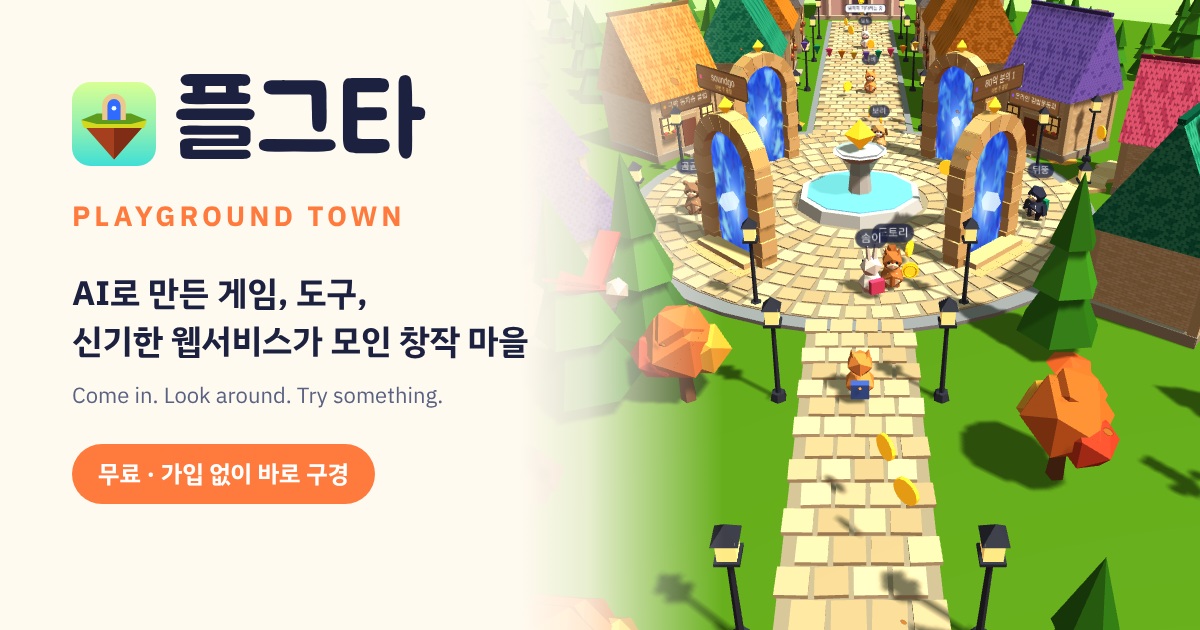
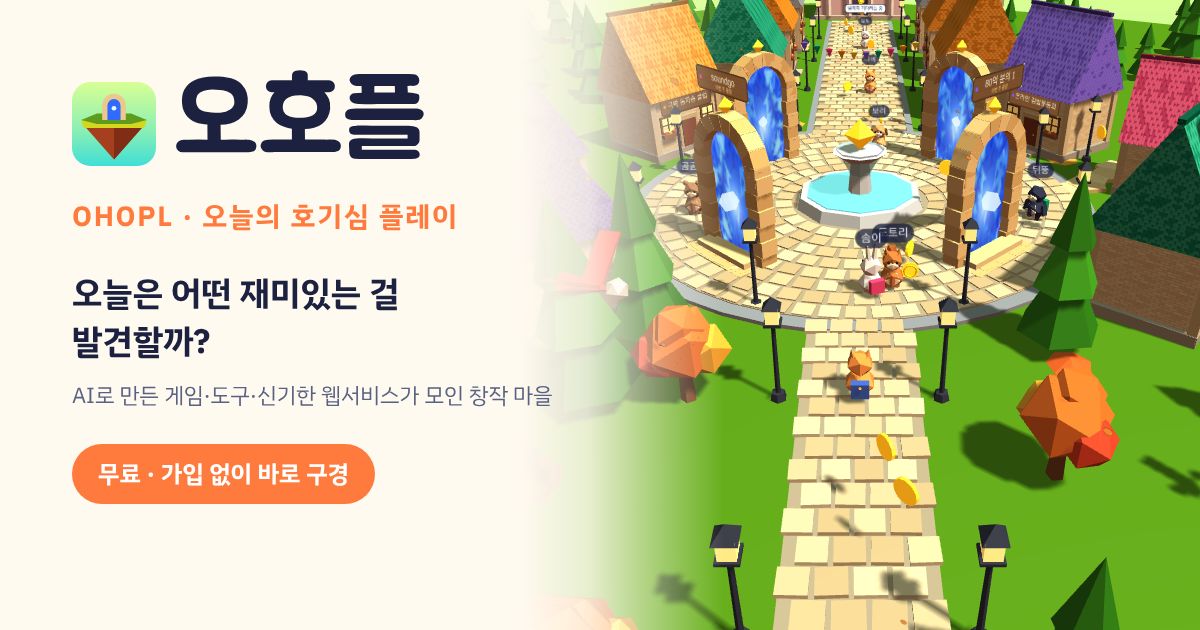
브랜드를 오호플(OHOPL)로 변경
Claude-Session: https://claude.ai/code/session_01DTRoTQFnC3GJ2N4Hy9wZY7

diff --git a/index.html b/index.html
@@ -3,21 +3,21 @@
 <head>
 <meta charset="utf-8">
 <meta name="viewport" content="width=device-width, initial-scale=1, viewport-fit=cover">
-<title>플그타 PLAYGROUND TOWN</title>
-<meta name="description" content="AI로 만든 게임, 도구, 신기한 웹서비스가 모인 창작 마을. 동물 친구가 되어 걸어 다니며 구경해요. 무료, 가입 없이 바로.">
+<title>오호플 OHOPL · 오늘의 호기심 플레이</title>
+<meta name="description" content="오늘은 어떤 재미있는 걸 발견할까? AI로 만든 게임, 도구, 신기한 웹서비스가 모인 창작 마을. 무료, 가입 없이 바로.">
 <meta property="og:type" content="website">
-<meta property="og:site_name" content="플그타">
-<meta property="og:title" content="플그타 · PLAYGROUND TOWN">
-<meta property="og:description" content="AI로 만든 게임, 도구, 신기한 웹서비스가 모인 창작 마을">
-<meta property="og:url" content="https://plgta.vercel.app/">
-<meta property="og:image" content="https://plgta.vercel.app/og-image.png">
+<meta property="og:site_name" content="오호플">
+<meta property="og:title" content="오호플 · 오늘의 호기심 플레이">
+<meta property="og:description" content="오늘은 어떤 재미있는 걸 발견할까? AI로 만든 게임·도구·웹서비스가 모인 창작 마을">
+<meta property="og:url" content="https://ohopl.vercel.app/">
+<meta property="og:image" content="https://ohopl.vercel.app/og-image.png">
 <meta property="og:image:width" content="1200">
 <meta property="og:image:height" content="630">
 <meta property="og:locale" content="ko_KR">
 <meta name="twitter:card" content="summary_large_image">
-<meta name="twitter:title" content="플그타 · PLAYGROUND TOWN">
-<meta name="twitter:description" content="AI로 만든 게임, 도구, 신기한 웹서비스가 모인 창작 마을">
-<meta name="twitter:image" content="https://plgta.vercel.app/og-image.png">
+<meta name="twitter:title" content="오호플 · 오늘의 호기심 플레이">
+<meta name="twitter:description" content="오늘은 어떤 재미있는 걸 발견할까?">
+<meta name="twitter:image" content="https://ohopl.vercel.app/og-image.png">
 <link rel="icon" href="/favicon.svg" type="image/svg+xml">
 <link rel="icon" href="/favicon-32.png" sizes="32x32" type="image/png">
 <link rel="icon" href="/favicon-16.png" sizes="16x16" type="image/png">
@@ -243,10 +243,10 @@ button{cursor:pointer}
 
 </head>
 <body>
-<canvas id="c" aria-label="플그타 창작 마을 3D 화면"></canvas>
+<canvas id="c" aria-label="오호플 창작 마을 3D 화면"></canvas>
 
 <header class="top">
-  <div class="brand"><b>플그타</b><span>PLAYGROUND TOWN</span></div>
+  <div class="brand"><b>오호플</b><span>오늘의 호기심 플레이</span></div>
   <div class="spacer"></div>
   <label class="pill" for="animal">나는
     <select id="animal" aria-label="내 동물 고르기">
@@ -307,13 +307,13 @@ button{cursor:pointer}
     <div class="feat-row" id="feat"></div>
     <h3 class="sec-title">모든 가게 <small id="countLabel"></small></h3>
     <div class="tiles" id="tiles"></div>
-    <section class="g-about" id="gAbout" aria-label="플그타 소개"></section>
+    <section class="g-about" id="gAbout" aria-label="오호플 소개"></section>
     <footer class="g-foot">
-      <p class="foot-brand"><b>플그타</b> PLAYGROUND TOWN · Come in. Look around. Try something.</p>
+      <p class="foot-brand"><b>오호플</b> OHOPL · 오늘의 호기심 플레이 · 오늘은 어떤 재미있는 걸 발견할까?</p>
       <nav class="foot-links" aria-label="안내">
-        <a href="#about">플그타 소개</a><a href="#faq">자주 묻는 질문</a><a href="#submit">작품 입점·삭제 요청</a><a href="#terms">이용약관</a><a href="#privacy"><b>개인정보처리방침</b></a><a href="#operator">운영자 정보</a>
+        <a href="#about">오호플 소개</a><a href="#faq">자주 묻는 질문</a><a href="#submit">작품 입점·삭제 요청</a><a href="#terms">이용약관</a><a href="#privacy"><b>개인정보처리방침</b></a><a href="#operator">운영자 정보</a>
       </nav>
-      <p class="foot-note">소개된 작품은 각 제작자가 운영해요. 작품 안의 내용과 개인정보 처리는 해당 사이트의 정책을 따라요. © 2026 플그타</p>
+      <p class="foot-note">소개된 작품은 각 제작자가 운영해요. 작품 안의 내용과 개인정보 처리는 해당 사이트의 정책을 따라요. © 2026 오호플</p>
     </footer>
   </div>
 </section>
@@ -330,13 +330,13 @@ button{cursor:pointer}
 <button class="jump" id="jumpBtn" type="button" hidden>점프</button>
 <section class="info" id="info" hidden role="dialog" aria-labelledby="infoTitle">
   <div class="info-inner">
-    <header class="info-head"><h1 id="infoTitle">플그타 안내</h1><button class="chat-x" id="infoClose" type="button" aria-label="안내 닫기">×</button></header>
+    <header class="info-head"><h1 id="infoTitle">오호플 안내</h1><button class="chat-x" id="infoClose" type="button" aria-label="안내 닫기">×</button></header>
     <nav class="info-tabs" id="infoTabs" aria-label="안내 목록"></nav>
     <article class="info-body" id="infoBody"></article>
   </div>
 </section>
 <div class="toast" id="toast" hidden></div>
-<div class="loading" id="loading">플그타 여는 중</div>
+<div class="loading" id="loading">오호플 여는 중</div>
 
 <script src="https://cdnjs.cloudflare.com/ajax/libs/three.js/r128/three.min.js"></script>
 <script>
@@ -351,7 +351,7 @@ const TYPES = {
   EXPLORE:{ko:'탐험', color:'#f28c17'}
 };
 // 작품으로 보낼 때 붙이는 꼬리표. 도메인이 정해지면 여기만 바꾸면 됨
-const SITE_REF = {ref:'plgta', utm_source:'plgta'};
+const SITE_REF = {ref:'ohopl', utm_source:'ohopl'};
 function withRef(url){
   try{ const u=new URL(url); for(const k in SITE_REF){ if(!u.searchParams.has(k)) u.searchParams.set(k, SITE_REF[k]); } return u.toString(); }
   catch(e){ return url; }
@@ -385,7 +385,7 @@ const WORKS = [
   {id:'julseo', name:'줄서 · 불구덩이', type:'EXPLORE', zone:'골목', side:'east', url:'https://julseo.co.kr', desc:'고민을 적고 줄 섰다가 차례가 오면 불구덩이에 던져요. 저장되지 않아요.', share:'"오늘 고민 태우고 왔다"', score:2},
   {id:'haewoo', name:'해우소 · 속풀이 숲', type:'EXPLORE', zone:'골목', side:'east', url:'https://haewooso.net/', desc:'못 한 말을 적으면 똥이 되어 쌓이고, 꼰대 상사 인형을 때리고 물을 내려요.', share:'직장 스트레스 밈', score:2}
 ];
-// 마을 구석에 숨겨 둔 작품 (플그타 제작자가 만든 것만)
+// 마을 구석에 숨겨 둔 작품 (오호플 제작자가 만든 것만)
 const HIDDEN_WORKS = [
   {id:'camino', name:'카미노스피어', type:'EXPLORE', zone:'숨은 곳', hidden:true, url:'https://caminosphere.vercel.app/', desc:'피레네를 넘는 산티아고 프랑스 길을 브라우저에서 걸어요. 국기를 단 배낭을 메고, 다른 순례자에게 물이나 차 한 잔을 건네요.', share:'내 순례자 캐릭터와 걸은 거리 캡처', score:2,
     hint:'서쪽 골목 끝에서 숲 쪽을 봐. 돌 위에 노란 화살표가 있어. 그걸 따라가'},
@@ -781,8 +781,8 @@ function makeGate(){
   const g=new THREE.Group();
   const arch=makeArch(1.0, 0, 0, '#ecc88c', 3.6); g.add(arch);
   const top=arch.userData.H + 3.6;
-  const sg=sign('PLAYGROUND TOWN','#ff7a3d',7,'플그타에 어서 와요'); sg.position.set(0,top+1.9,0.3); g.add(sg);
-  const sgb=sign('PLAYGROUND TOWN','#ff7a3d',7,'또 놀러 와요'); sgb.rotation.y=Math.PI; sgb.position.set(0,top+1.9,-0.3); g.add(sgb);
+  const sg=sign('오호플','#ff7a3d',7,'오늘의 호기심 플레이'); sg.position.set(0,top+1.9,0.3); g.add(sg);
+  const sgb=sign('오호플','#ff7a3d',7,'내일 또 놀러 와요'); sgb.rotation.y=Math.PI; sgb.position.set(0,top+1.9,-0.3); g.add(sgb);
   g.position.set(0,0,52); scene.add(g);
   colliders.push({x:-3.6,z:52,r:0.8},{x:3.6,z:52,r:0.8});
 }
@@ -1247,7 +1247,7 @@ function openCard(id){
   rows.forEach(([k,v],i)=>{ const dt=document.createElement('dt'); dt.textContent=k; const dd=document.createElement('dd'); dd.textContent=v.trim(); if(i===1) dd.className='dots'; kv.append(dt,dd); });
   $('cardMove').textContent = w.soon ? '마을이 자리를 잡으면 이 미술관이 첫 번째 자체 작품으로 문을 열어요.'
     : w.vacant ? '큰길에 남은 빈자리예요. 작품이 입점하면 이 자리에 간판이 걸려요.'
-    : w.hidden ? '플그타를 만든 사람이 마을 구석에 숨겨 둔 작품이에요.'
+    : w.hidden ? '오호플을 만든 사람이 마을 구석에 숨겨 둔 작품이에요.'
     : w.moved ? '반응이 좋아서 이번 주 골목에서 큰길로 이사 왔어요.'
     : w.zone==='골목' ? '골목에서 막 문을 연 가게예요. 매주 반응을 보고 큰길로 이사할 가게를 골라요.'
     : w.zone==='큰길' ? '찾아오는 사람이 많은 큰길 가게예요.'
@@ -1316,9 +1316,9 @@ const PH = t => `<span class="ph">[${t}]</span>`;
 function countType(k){ return WORKS.filter(w=>w.type===k).length; }
 function aboutHTML(h){
   const feat=WORKS.filter(w=>w.featured).map(w=>w.name).join(', ');
-  return `<${h}>플그타는 어떤 곳인가요?</${h}>
-  <p>플그타(PLAYGROUND TOWN)는 AI로 만든 게임, 도구, 신기한 웹서비스를 동물 친구가 되어 걸어 다니며 구경하는 창작 마을이에요. 설치도 가입도 필요 없어요. 휴대폰, 태블릿, PC 어디서든 바로 들어와요.</p>
-  <p>지금 마을에는 작품 ${WORKS.length}곳이 문을 열었고, 마을 구석에 숨은 가게도 있어요. 작품은 각 제작자의 사이트에서 운영되고, 플그타는 재미있는 작품을 골라 소개하고 연결해요.</p>
+  return `<${h}>오호플은 어떤 곳인가요?</${h}>
+  <p>오호플(OHOPL)은 AI로 만든 게임, 도구, 신기한 웹서비스를 동물 친구가 되어 걸어 다니며 구경하는 창작 마을이에요. 설치도 가입도 필요 없어요. 휴대폰, 태블릿, PC 어디서든 바로 들어와요.</p>
+  <p>지금 마을에는 작품 ${WORKS.length}곳이 문을 열었고, 마을 구석에 숨은 가게도 있어요. 작품은 각 제작자의 사이트에서 운영되고, 오호플은 재미있는 작품을 골라 소개하고 연결해요.</p>
   <div class="about-grid">
     <div><h3>이번 주 광장</h3><p>분수 둘레 포털에 걸린 작품이에요. ${feat}.</p></div>
     <div><h3>놀이 ${countType('PLAY')}곳</h3><p>친구를 불러 한 판 하는 게임부터 인생 시뮬레이션까지 있어요.</p></div>
@@ -1330,11 +1330,11 @@ function aboutHTML(h){
 }
 function renderAbout(){ $('gAbout').innerHTML = aboutHTML('h2'); }
 const PAGES = {
-  about:{label:'플그타 소개', html:()=>`<h2>플그타 소개</h2><p class="lead">Come in. Look around. Try something.</p>${aboutHTML('h3')}`},
+  about:{label:'오호플 소개', html:()=>`<h2>오호플 소개</h2><p class="lead">오늘은 어떤 재미있는 걸 발견할까? 발견하고, 해 보고, 창작자가 성장하는 곳.</p>${aboutHTML('h3')}`},
   faq:{label:'자주 묻는 질문', html:()=>`<h2>자주 묻는 질문</h2><dl>
-    <div><dt>무료인가요?</dt><dd>네, 플그타는 무료예요. 소개된 작품 중 일부는 제작자 사이트에서 유료 기능을 운영할 수 있어요.</dd></div>
+    <div><dt>무료인가요?</dt><dd>네, 오호플은 무료예요. 소개된 작품 중 일부는 제작자 사이트에서 유료 기능을 운영할 수 있어요.</dd></div>
     <div><dt>가입해야 하나요?</dt><dd>아니요. 고른 동물, 코인, 도장은 지금 쓰는 기기의 브라우저에만 저장돼요. 다른 기기에서는 처음부터 시작해요.</dd></div>
-    <div><dt>작품은 누가 만들었나요?</dt><dd>각 작품의 제작자가 만들었어요. 플그타는 작품을 골라 소개하고 원래 사이트로 연결해요. 마을 구석의 숨은 가게는 플그타를 만든 사람이 만든 작품이에요.</dd></div>
+    <div><dt>작품은 누가 만들었나요?</dt><dd>각 작품의 제작자가 만들었어요. 오호플은 작품을 골라 소개하고 원래 사이트로 연결해요. 마을 구석의 숨은 가게는 오호플을 만든 사람이 만든 작품이에요.</dd></div>
     <div><dt>왜 새 창으로 이동하나요?</dt><dd>작품이 제작자 사이트에서 운영되기 때문이에요. 둘러보고 돌아오면 반응을 남길 수 있어요.</dd></div>
     <div><dt>도장은 언제 찍히나요?</dt><dd>작품에 들러 15초 이상 둘러보고 돌아오면 찍혀요.</dd></div>
     <div><dt>큰길로 이사하는 가게는 어떻게 정하나요?</dt><dd>매주 방문자 반응을 보고 운영자가 골라요. 반응이 쌓이면 자동으로 이사하는 기능은 준비 중이에요.</dd></div>
@@ -1347,12 +1347,12 @@ const PAGES = {
     <h3>입점 신청</h3><p>아래 내용을 이메일(eunhaebleu@naver.com)로 보내 주세요.</p>
     <ul><li>작품 이름과 주소</li><li>한 줄 소개와 무엇을 할 수 있는지</li><li>제작자 이름이나 닉네임, 연락받을 방법</li><li>모바일 지원 여부, 연령 권장 사항</li></ul>
     <h3>고르는 기준</h3><ul><li>링크가 바로 열리고 휴대폰에서도 쓸 수 있는가</li><li>설명 없이도 해볼 만한가</li><li>다른 사람에게 보여주고 싶은가</li><li>불법·유해 내용, 피싱, 악성코드가 없는가</li></ul>
-    <h3>입점하면</h3><p>새 작품은 골목에서 시작해요. 플그타에서 작품으로 가는 링크에는 <code>?ref=plgta&amp;utm_source=plgta</code>가 붙어서, 제작자가 자기 통계에서 플그타 방문자를 확인할 수 있어요.</p>
+    <h3>입점하면</h3><p>새 작품은 골목에서 시작해요. 오호플에서 작품으로 가는 링크에는 <code>?ref=ohopl&amp;utm_source=ohopl</code>가 붙어서, 제작자가 자기 통계에서 오호플 방문자를 확인할 수 있어요.</p>
     <h3>수정·소개 중단 요청</h3><p>제작자는 언제든 작품 정보 수정이나 소개 중단을 요청할 수 있어요. 확인 후 바로 반영해요.</p>
     <h3>권리 침해 신고</h3><p>소개된 작품이 저작권 등 권리를 침해한다고 생각하면 신고인 연락처, 대상 작품, 침해 내용과 권리를 확인할 수 있는 자료를 보내 주세요. 확인하는 동안 소개를 임시로 중단하고, 처리 결과를 알려 드려요.</p>`},
   terms:{label:'이용약관', html:()=>`<h2>이용약관</h2>
-    <h3>제1조 (목적)</h3><p>이 약관은 블루루반(이하 "운영자")이 제공하는 플그타(PLAYGROUND TOWN) 서비스의 이용 조건과 절차를 정합니다.</p>
-    <h3>제2조 (서비스 내용)</h3><p>플그타는 다른 제작자가 만든 웹 작품을 소개하고 해당 작품의 주소로 연결하는 서비스예요. 마을 둘러보기, 코인, 주민 대화 같은 부가 기능은 무료로 제공해요.</p>
+    <h3>제1조 (목적)</h3><p>이 약관은 블루루반(이하 "운영자")이 제공하는 오호플(OHOPL) 서비스의 이용 조건과 절차를 정합니다.</p>
+    <h3>제2조 (서비스 내용)</h3><p>오호플은 다른 제작자가 만든 웹 작품을 소개하고 해당 작품의 주소로 연결하는 서비스예요. 마을 둘러보기, 코인, 주민 대화 같은 부가 기능은 무료로 제공해요.</p>
     <h3>제3조 (외부 작품)</h3><p>소개된 작품은 각 제작자가 운영해요. 작품의 내용, 이용 조건, 개인정보 처리, 결제는 해당 작품의 정책을 따르며 운영자는 이에 관여하지 않아요. 작품을 쓰기 전에 해당 사이트의 약관을 확인해 주세요.</p>
     <h3>제4조 (소개 기준과 중단)</h3><p>운영자는 작품을 직접 골라 소개하며, 불법·유해 정보, 피싱·악성코드, 권리 침해 신고가 확인되었거나 링크가 오랫동안 작동하지 않으면 소개를 중단할 수 있어요.</p>
     <h3>제5조 (권리 침해 신고)</h3><p>권리를 침해당했다고 판단하는 사람은 <a href="#submit">입점·삭제 요청</a> 페이지의 방법으로 신고할 수 있어요. 운영자는 확인 후 소개를 임시로 중단하는 등 필요한 조치를 해요.</p>
@@ -1362,11 +1362,11 @@ const PAGES = {
     <h3>제9조 (준거법과 관할)</h3><p>이 약관은 대한민국 법을 따르며, 분쟁은 민사소송법에 따른 관할 법원에서 해결해요.</p>
     <h3>부칙</h3><p>이 약관은 ${PH('시행일')}부터 시행해요.</p>`},
   privacy:{label:'개인정보처리방침', html:()=>`<h2>개인정보처리방침</h2>
-    <p class="lead">블루루반은 플그타 이용자의 개인정보를 소중히 다뤄요.</p>
-    <h3>1. 수집하는 개인정보</h3><p>플그타는 회원가입이 없고, 이름·이메일·전화번호 같은 개인정보를 서버에 수집하지 않아요.</p>
+    <p class="lead">블루루반은 오호플 이용자의 개인정보를 소중히 다뤄요.</p>
+    <h3>1. 수집하는 개인정보</h3><p>오호플은 회원가입이 없고, 이름·이메일·전화번호 같은 개인정보를 서버에 수집하지 않아요.</p>
     <h3>2. 이 기기에만 저장되는 정보</h3><p>마을 이용 편의를 위해 브라우저 저장소(localStorage)에 아래 정보를 저장해요. 서버로 보내지 않으며, 브라우저의 사이트 데이터를 지우면 함께 지워져요.</p>
     <div class="tbl"><table><tr><th>항목</th><td>고른 동물, 코인 수, 도장, 남긴 반응, 주민과의 친밀도, 찾은 숨은 가게, 시간·날씨·계절·소리 설정, 이용 횟수 집계</td></tr><tr><th>목적</th><td>다음 방문 때 이어서 이용하기</td></tr><tr><th>보관</th><td>이용자가 지울 때까지 이 기기에만</td></tr></table></div>
-    <h3>3. 외부 사이트로 이동할 때</h3><p>작품으로 이동하면 해당 사이트의 개인정보처리방침이 적용돼요. 이동 주소에는 플그타에서 왔다는 표시(ref=plgta, utm_source=plgta)가 붙지만, 개인을 알아볼 수 있는 정보는 들어가지 않아요.</p>
+    <h3>3. 외부 사이트로 이동할 때</h3><p>작품으로 이동하면 해당 사이트의 개인정보처리방침이 적용돼요. 이동 주소에는 오호플에서 왔다는 표시(ref=ohopl, utm_source=ohopl)가 붙지만, 개인을 알아볼 수 있는 정보는 들어가지 않아요.</p>
     <h3>4. 이용 통계</h3><p>서비스 개선을 위한 방문 통계 도구를 도입하면 수집 항목, 목적, 보관 기간, 처리를 맡기는 업체를 이 방침에 먼저 알려요.</p>
     <h3>5. 이메일 문의</h3><p>이메일로 입점·문의를 보내면 답장을 위해 이메일 주소와 문의 내용을 받고, 처리 후 ${PH('보관 기간')} 동안 보관한 뒤 파기해요.</p>
     <h3>6. 개인정보 보호책임자</h3><p>이름 ${PH('이름')} · 연락처 ${PH('이메일')}</p>
@@ -1374,7 +1374,7 @@ const PAGES = {
     <h3>8. 시행일</h3><p>이 방침은 ${PH('시행일')}부터 적용해요.</p>`},
   operator:{label:'운영자 정보', html:()=>`<h2>운영자 정보</h2>
     <div class="tbl"><table>
-      <tr><th>서비스명</th><td>플그타 (PLAYGROUND TOWN)</td></tr>
+      <tr><th>서비스명</th><td>오호플 (OHOPL · 오늘의 호기심 플레이)</td></tr>
       <tr><th>운영</th><td>블루루반</td></tr>
       <tr><th>대표자</th><td>${PH('대표자 이름')}</td></tr>
       <tr><th>사업자등록번호</th><td>${PH('사업자등록번호')}</td></tr>

diff --git a/README.md b/README.md
@@ -1,6 +1,7 @@
-# 플그타 PLAYGROUND TOWN
+# 오호플 OHOPL · 오늘의 호기심 플레이
 
-AI로 만든 게임, 도구, 신기한 웹서비스가 모인 창작 마을. 정적 사이트(index.html 하나)라 빌드 없이 Vercel에 그대로 올라가요.
+오늘은 어떤 재미있는 걸 발견할까? AI로 만든 게임, 도구, 신기한 웹서비스가 모인 창작 마을.
+정적 사이트(index.html 하나)라 빌드 없이 Vercel에 그대로 올라가요.
 
-- 공유 미리보기 주소: index.html의 `https://plgta.vercel.app` 부분을 실제 도메인으로 바꾸기
+- 공유 미리보기 주소: index.html의 `https://ohopl.vercel.app`을 실제 도메인으로 바꾸기
 - 작품으로 가는 링크 꼬리표: index.html의 `SITE_REF`
